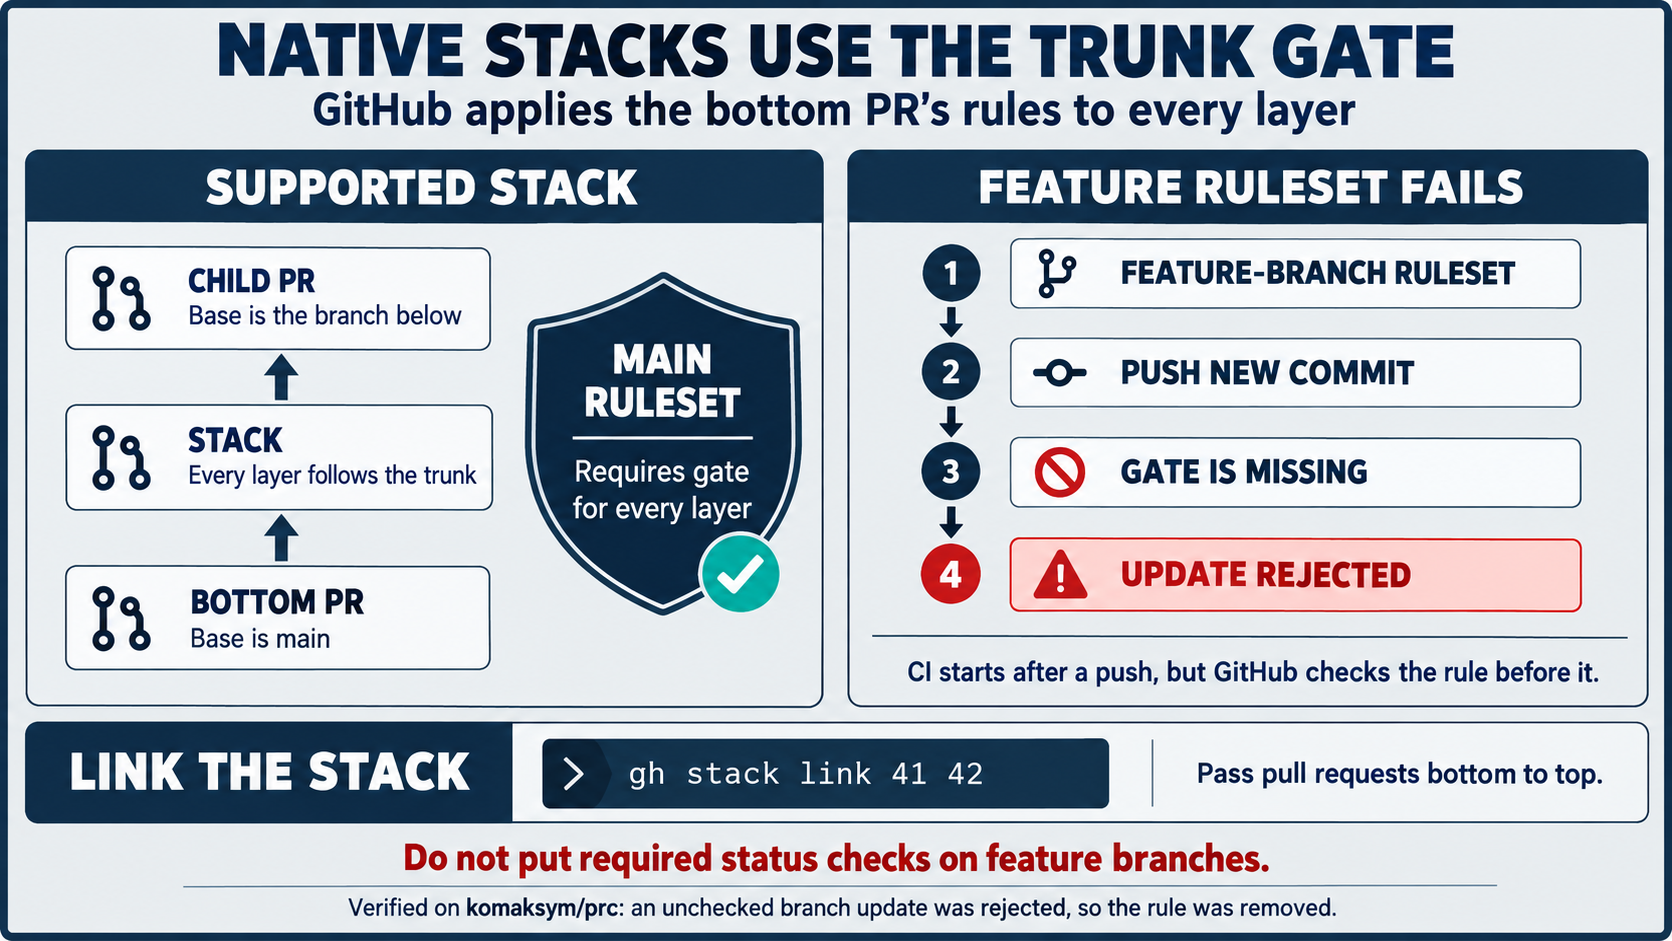
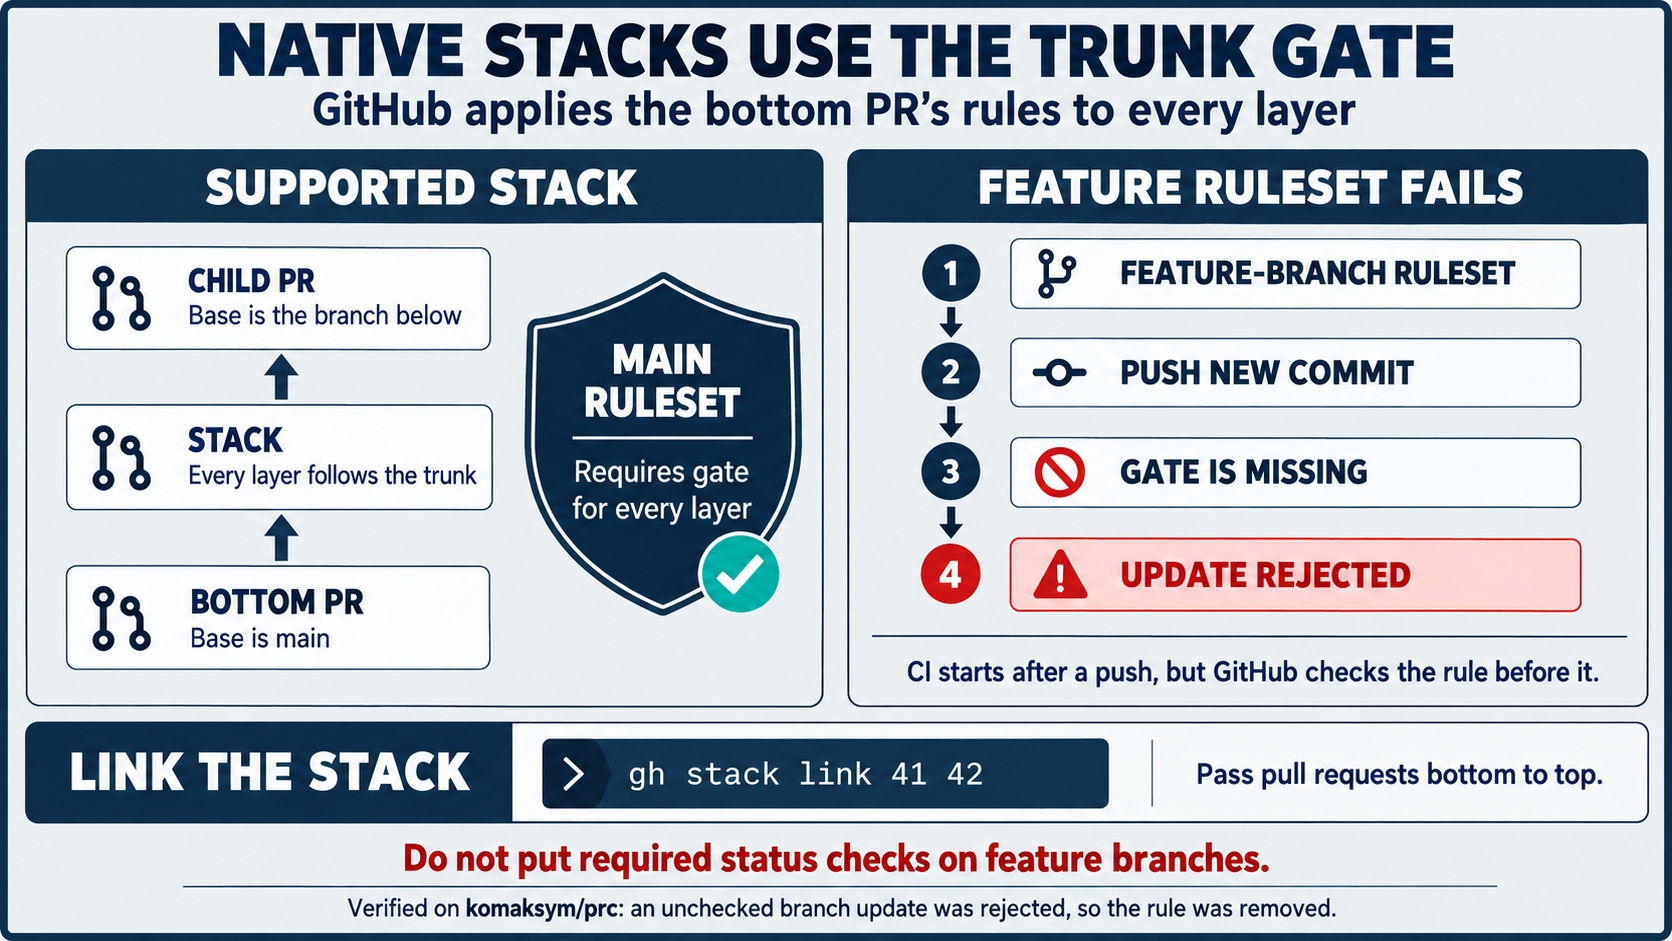
docs: refresh stacked gate infographic

diff --git a/.codex-pr-infographics/native-stacked-pr-gate/prompts/infographic.md b/.codex-pr-infographics/native-stacked-pr-gate/prompts/infographic.md
@@ -1,3 +1,12 @@
+---
+references:
+  - ref_id: 01
+    filename: refs/01-ref-native-stacked-pr-gate.png
+    usage: direct
+---
+
+Use the referenced infographic as the composition and style reference. Render a fresh, faithful version with the exact text below. Do not copy the reference bytes.
+
 Create a professional English infographic in landscape 16:9. Use structural-breakdown layout with technical-schematic styling. Opaque light gray canvas, visible navy border, high-contrast navy typography, restrained teal and red accents, and generous whitespace.
 
 Title: "NATIVE STACKS USE THE TRUNK GATE"
